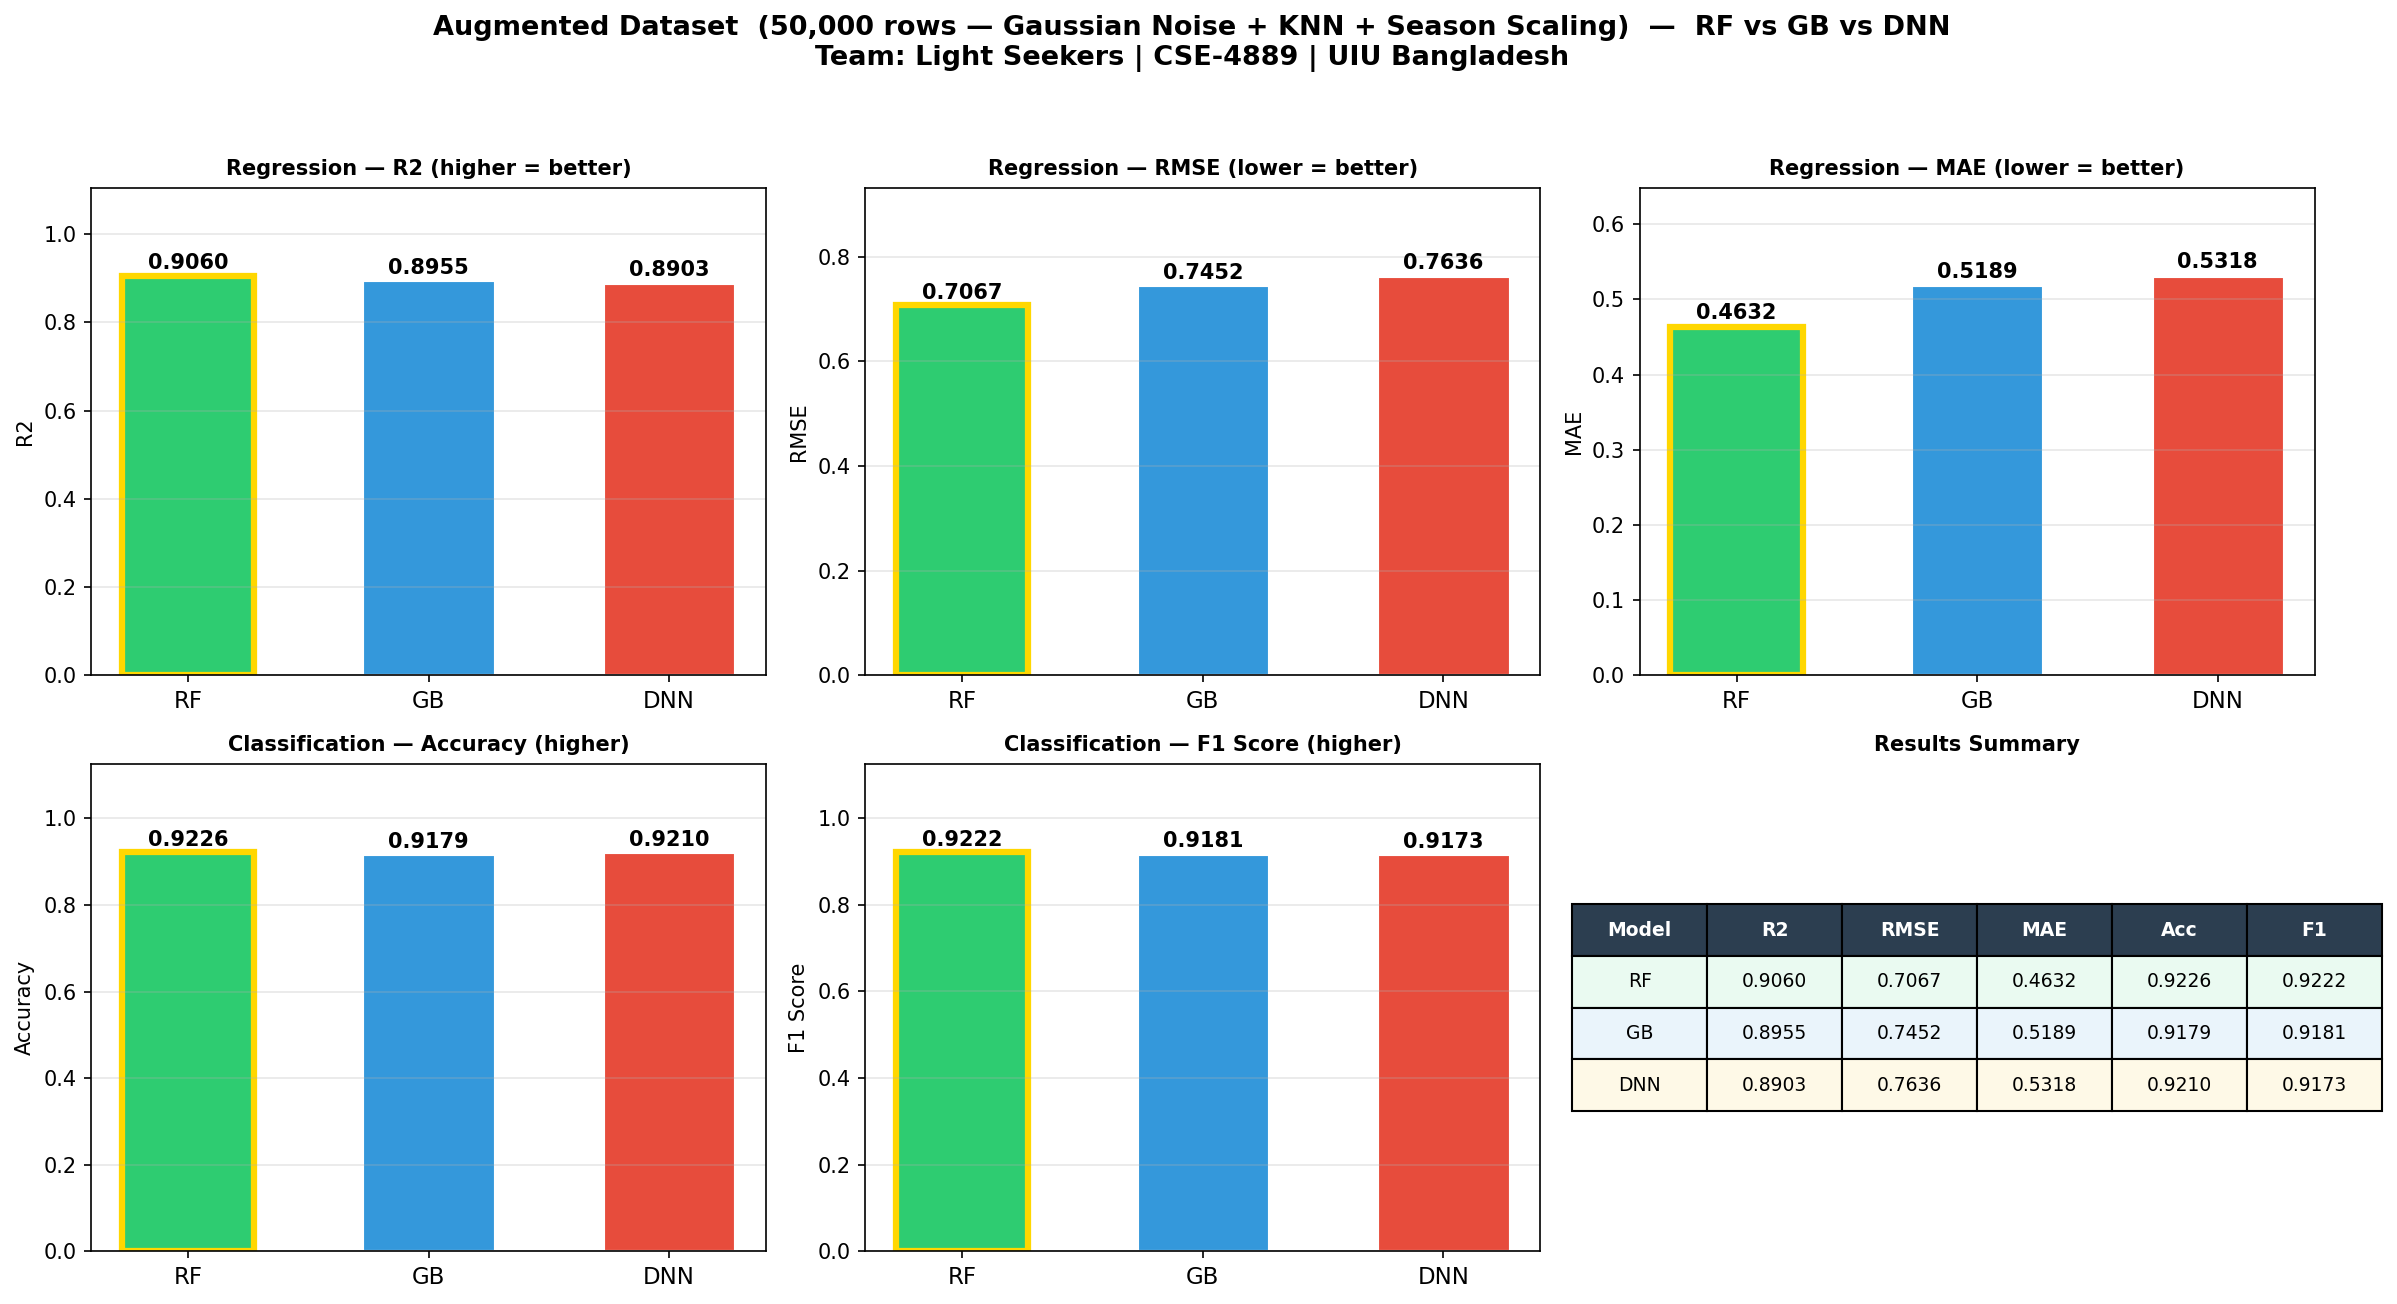
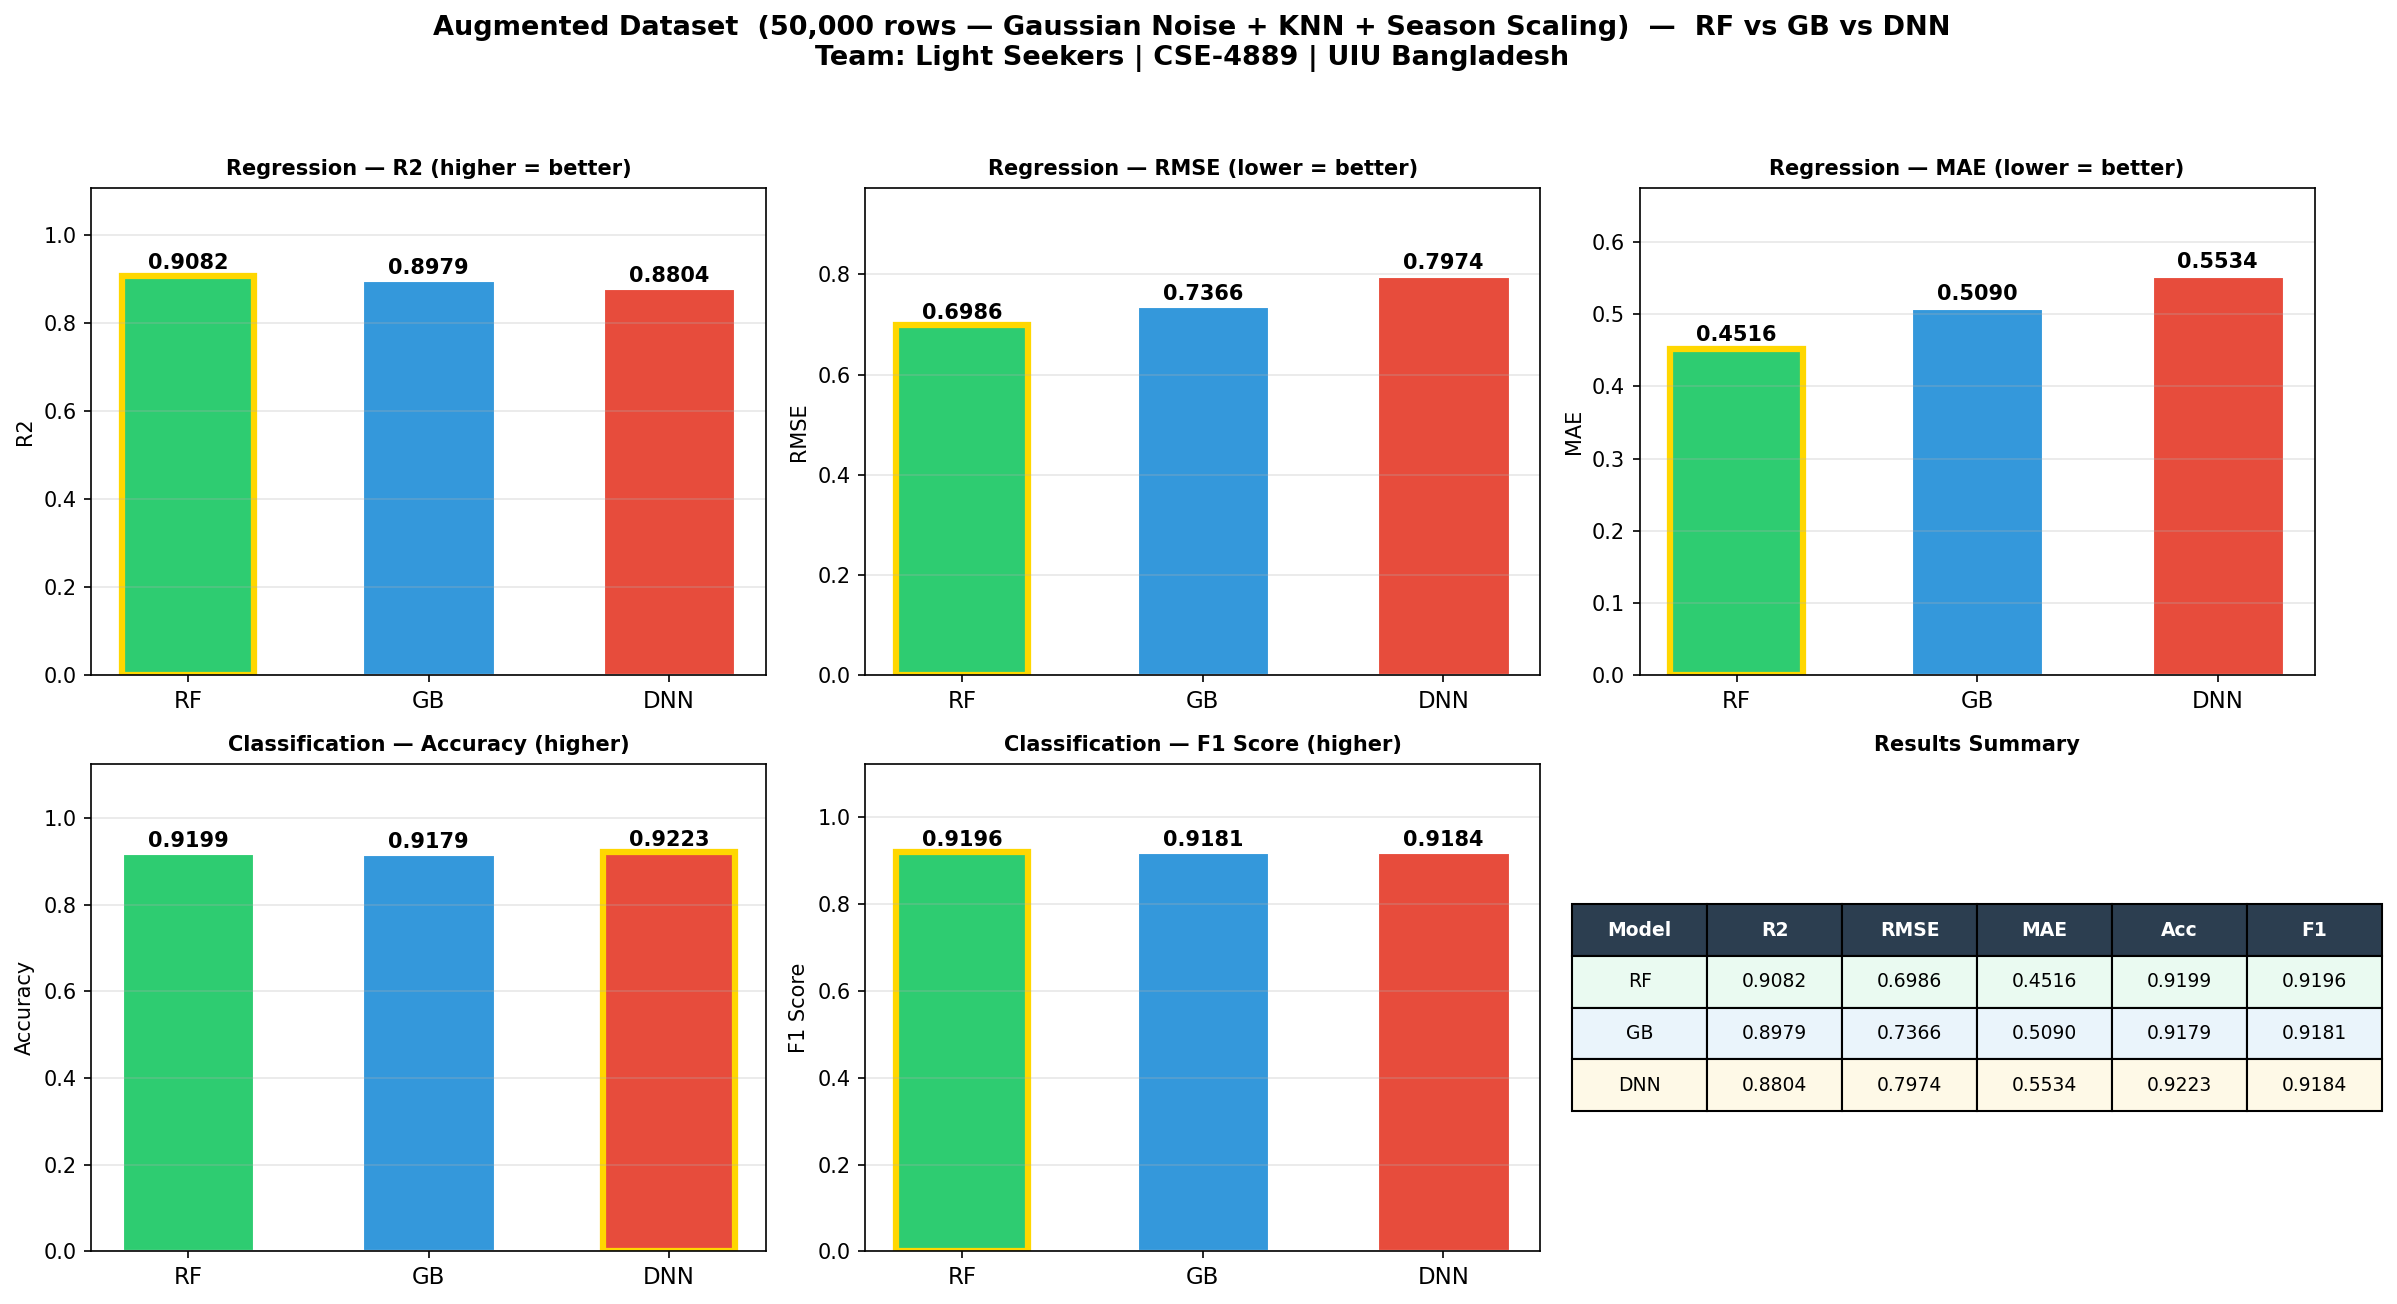
updated

diff --git a/master_comparison.py b/master_comparison.py
@@ -113,14 +113,14 @@ def train_all_models(X_tr_r, y_tr_r, X_te_r, y_te_r,
                      label=""):
     res_reg = {}
     res_cls = {}
-    large   = len(X_tr_r) > 10000   # augmented dataset flag
+    large = len(X_tr_r) > 10000   # augmented dataset flag
 
     # ── RF Regressor ──
     print(f"  [{label}] RF Regressor...")
     rf_reg = RandomForestRegressor(
-        n_estimators=80 if large else 150,
-        max_depth=15 if large else 20,
-        min_samples_leaf=4 if large else 2,
+        n_estimators=100 if large else 150,
+        max_depth=18 if large else 20,
+        min_samples_leaf=3 if large else 2,
         n_jobs=2 if large else -1, random_state=42)
     rf_reg.fit(X_tr_r, y_tr_r)
     p = rf_reg.predict(X_te_r)
@@ -131,8 +131,9 @@ def train_all_models(X_tr_r, y_tr_r, X_te_r, y_te_r,
 
     # ── GB Regressor ──
     print(f"  [{label}] GB Regressor...")
-    gb_reg = HistGradientBoostingRegressor(max_iter=150, learning_rate=0.05,
-                                            max_depth=6, random_state=42)
+    gb_reg = HistGradientBoostingRegressor(max_iter=200 if large else 150,
+                                            learning_rate=0.05, max_depth=6,
+                                            random_state=42)
     gb_reg.fit(X_tr_r, y_tr_r)
     p = gb_reg.predict(X_te_r)
     res_reg['GB'] = dict(r2=r2_score(y_te_r, p),
@@ -143,10 +144,10 @@ def train_all_models(X_tr_r, y_tr_r, X_te_r, y_te_r,
     # ── DNN Regressor ──
     print(f"  [{label}] DNN Regressor...")
     dnn_reg = MLPRegressor(
-        hidden_layer_sizes=(128, 64, 32) if large else (256, 128, 64, 32),
+        hidden_layer_sizes=(256, 128, 64, 32),
         activation='relu', solver='adam', learning_rate_init=0.001,
-        max_iter=300, early_stopping=not large,
-        validation_fraction=0.05 if not large else 0.0,
+        max_iter=400, early_stopping=True,
+        validation_fraction=0.05,
         n_iter_no_change=20, batch_size=512 if large else 256,
         random_state=42, verbose=False)
     dnn_reg.fit(X_tr_r, y_tr_r)
@@ -159,9 +160,9 @@ def train_all_models(X_tr_r, y_tr_r, X_te_r, y_te_r,
     # ── RF Classifier ──
     print(f"  [{label}] RF Classifier...")
     rf_cls = RandomForestClassifier(
-        n_estimators=80 if large else 150,
-        max_depth=15 if large else 20,
-        min_samples_leaf=4 if large else 2,
+        n_estimators=100 if large else 150,
+        max_depth=18 if large else 20,
+        min_samples_leaf=3 if large else 2,
         class_weight='balanced',
         n_jobs=2 if large else -1, random_state=42)
     rf_cls.fit(X_tr_c, y_tr_c)
@@ -172,8 +173,9 @@ def train_all_models(X_tr_r, y_tr_r, X_te_r, y_te_r,
 
     # ── GB Classifier ──
     print(f"  [{label}] GB Classifier...")
-    gb_cls = HistGradientBoostingClassifier(max_iter=150, learning_rate=0.05,
-                                             max_depth=6, random_state=42)
+    gb_cls = HistGradientBoostingClassifier(max_iter=200 if large else 150,
+                                             learning_rate=0.05, max_depth=6,
+                                             random_state=42)
     gb_cls.fit(X_tr_c, y_tr_c)
     p = gb_cls.predict(X_te_c)
     res_cls['GB'] = dict(acc=accuracy_score(y_te_c, p),
@@ -182,12 +184,11 @@ def train_all_models(X_tr_r, y_tr_r, X_te_r, y_te_r,
 
     # ── DNN Classifier ──
     print(f"  [{label}] DNN Classifier...")
-    large = len(X_tr_c) > 10000
     dnn_cls = MLPClassifier(
-        hidden_layer_sizes=(128, 64, 32) if large else (256, 128, 64),
+        hidden_layer_sizes=(256, 128, 64),
         activation='relu', solver='adam', learning_rate_init=0.001,
-        max_iter=300, early_stopping=not large,
-        validation_fraction=0.05 if not large else 0.0,
+        max_iter=400, early_stopping=True,
+        validation_fraction=0.05,
         n_iter_no_change=20, batch_size=512 if large else 256,
         random_state=42, verbose=False)
     dnn_cls.fit(X_tr_c, y_tr_c)
